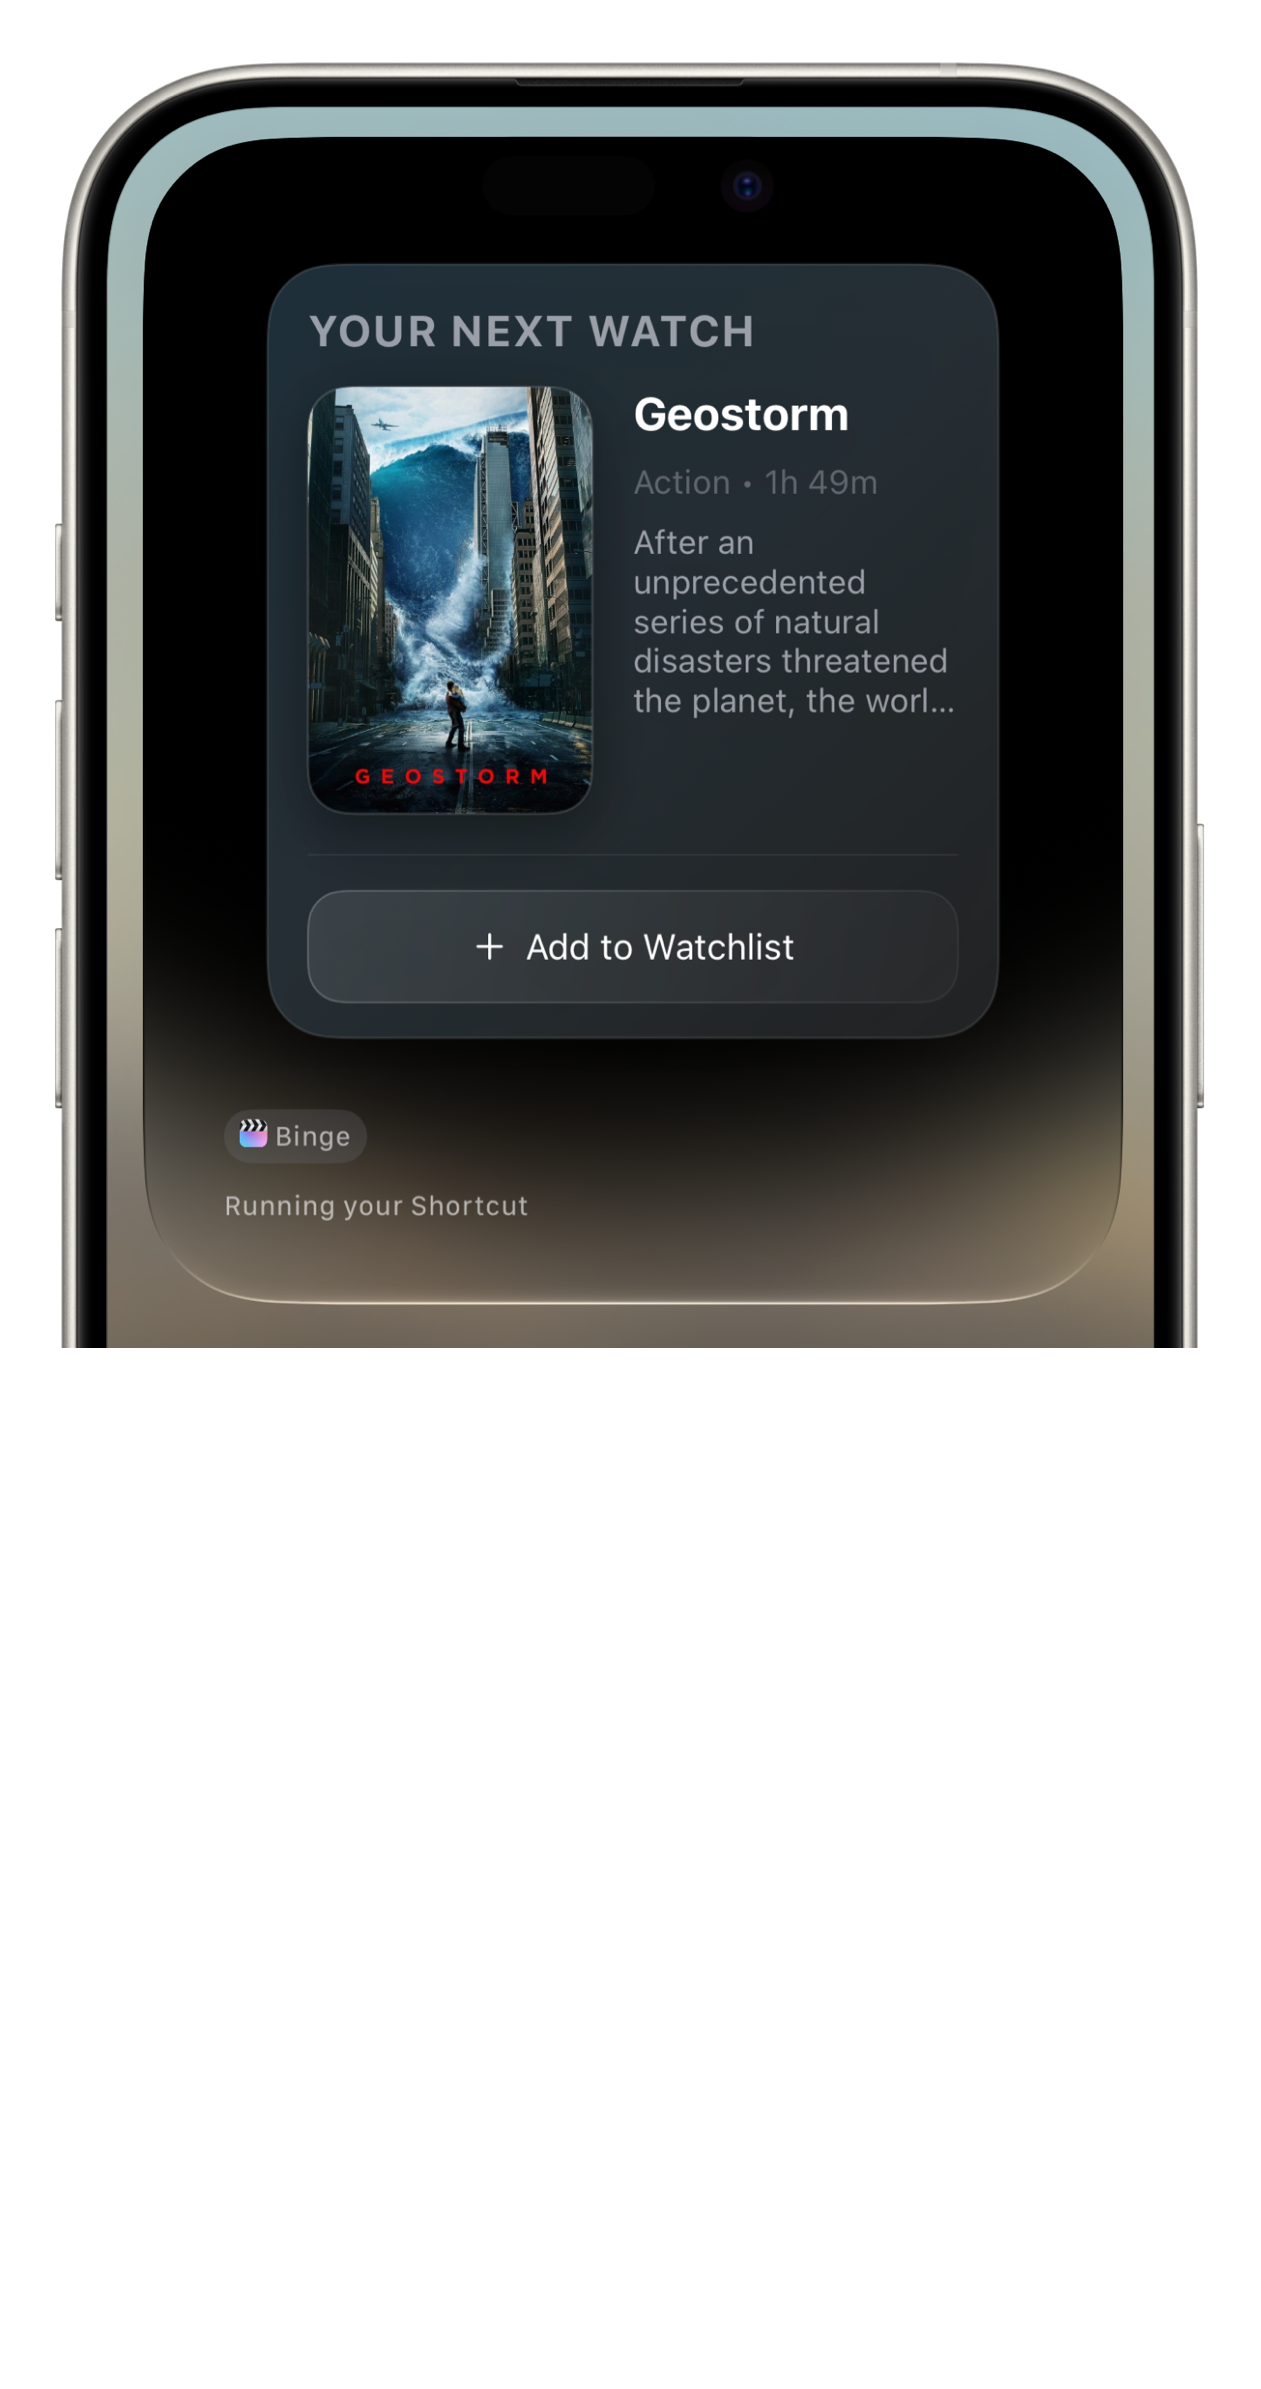
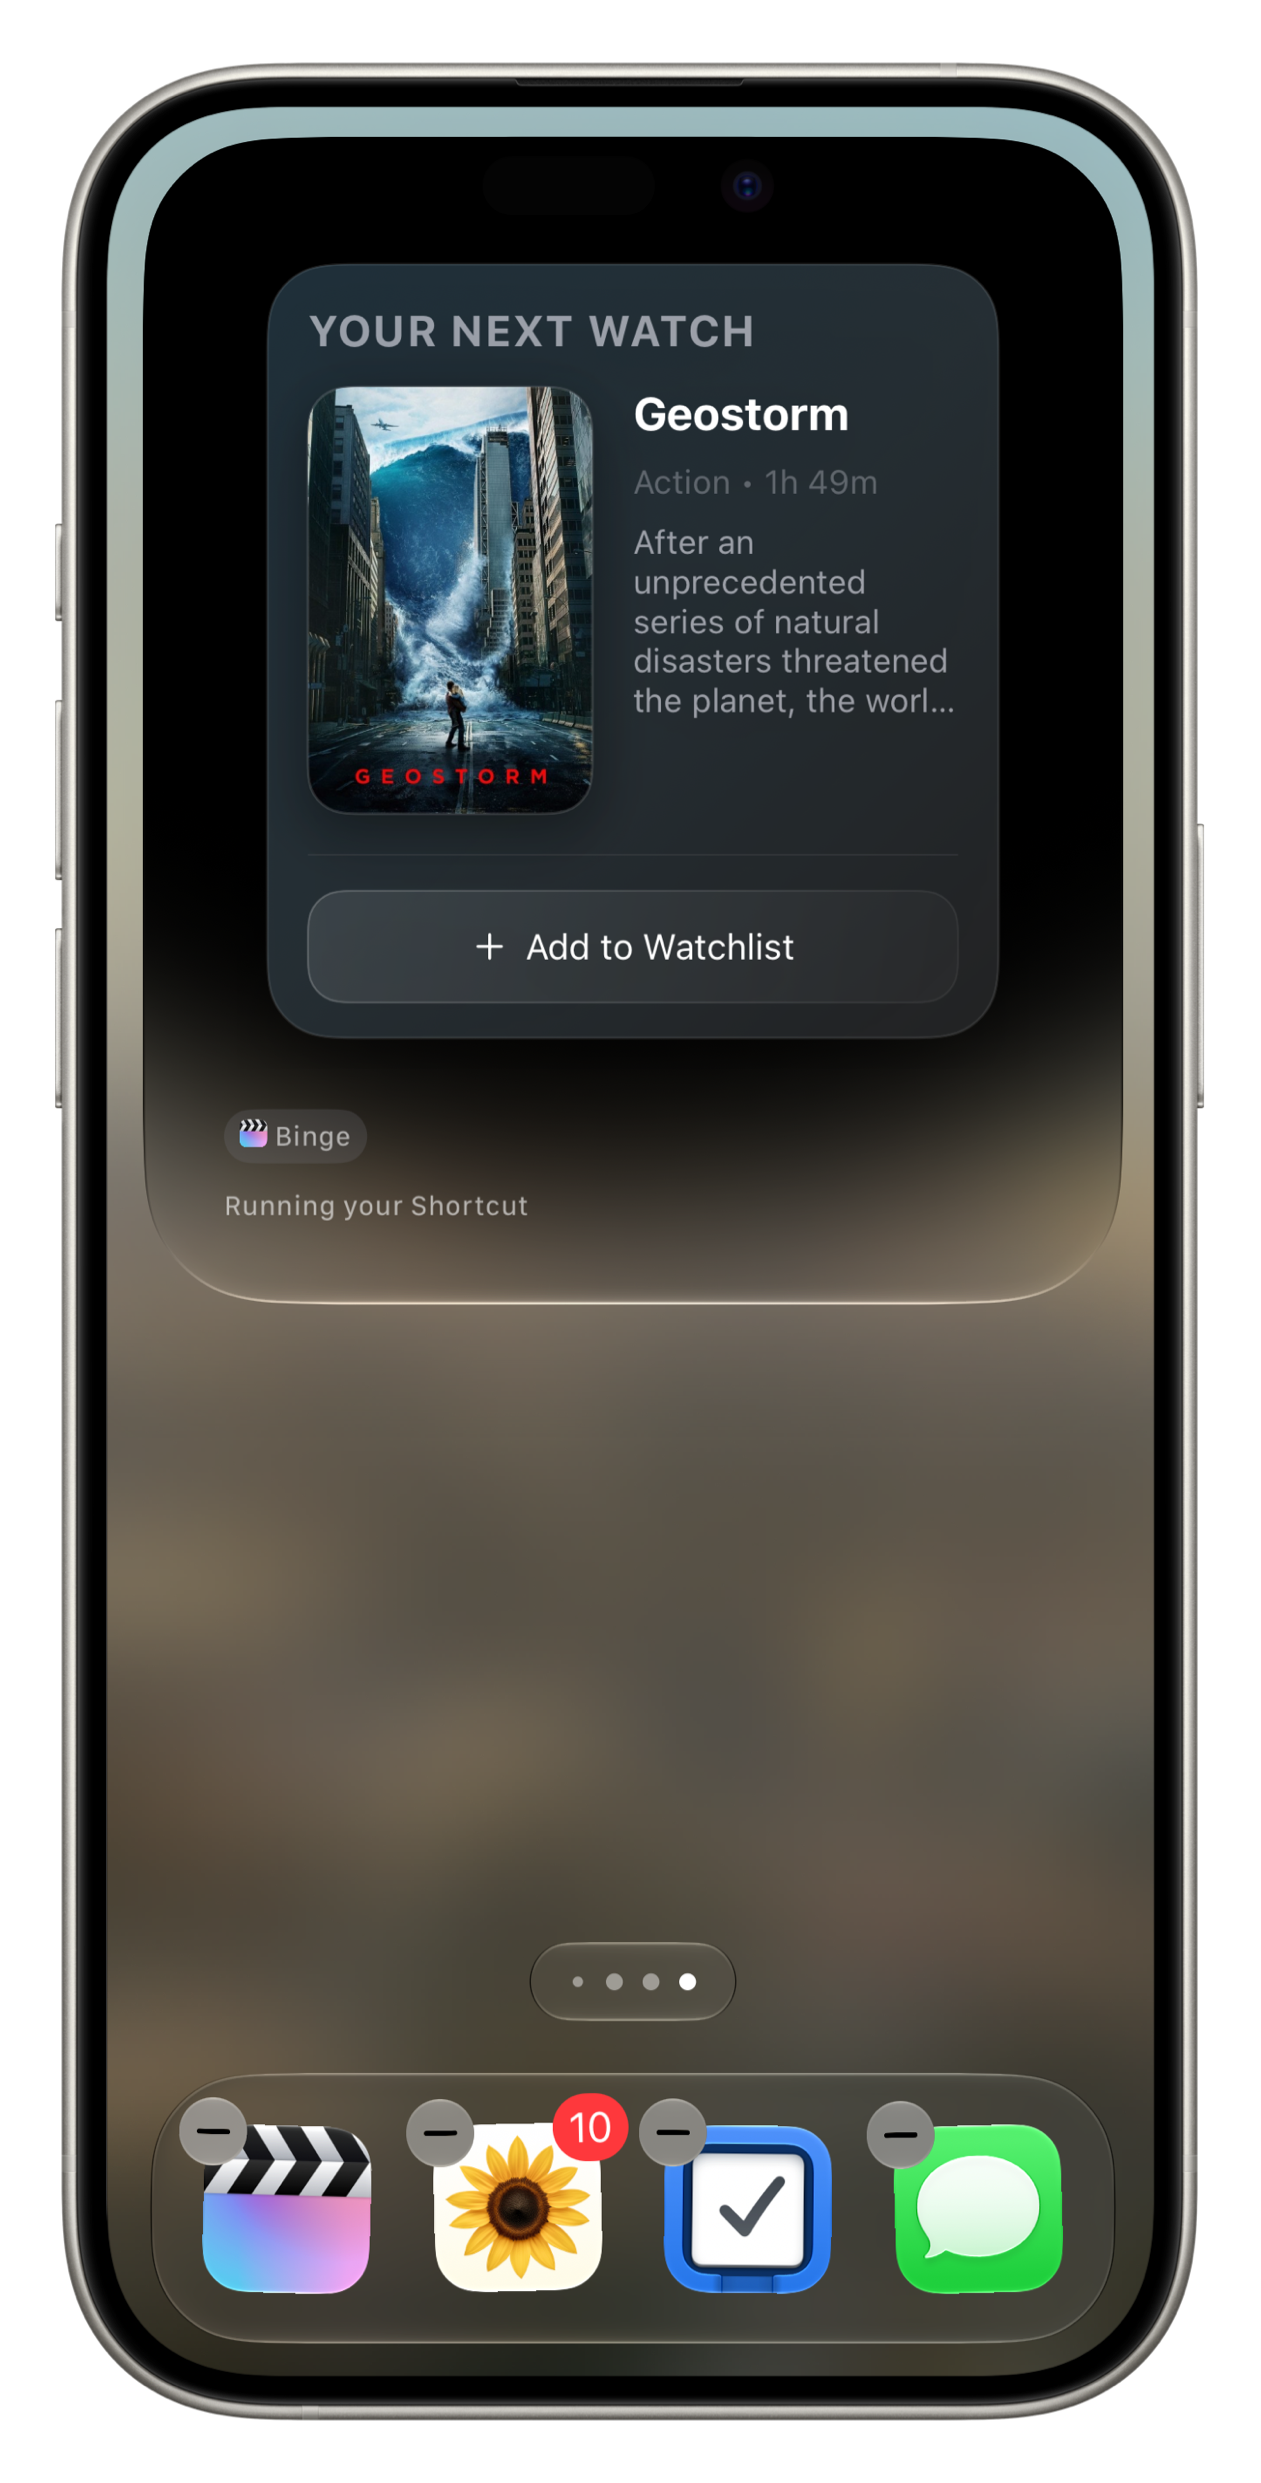
Use full Apple Intelligence phone artwork

diff --git a/index.html b/index.html
@@ -26,7 +26,7 @@
     <link rel="icon" type="image/png" sizes="16x16" href="/favicon-16.png?v=f683aeb">
     <link rel="apple-touch-icon" sizes="180x180" href="/favicon-180.png?v=f683aeb">
     <link rel="preload" as="image" type="image/png" href="/assets/hand-cursor.png?v=1">
-    <link rel="stylesheet" href="style.css?v=119">
+    <link rel="stylesheet" href="style.css?v=121">
     <script src="devices.js?v=6" defer></script>
     <script src="widgets.js?v=2" defer></script>
     <script src="cursor.js?v=1" defer></script>
@@ -117,7 +117,7 @@
                 </div>
 
                 <div class="apple-intelligence-phone">
-                    <img src="assets/apple-intelligence-phone.png?v=2" width="1261" height="2389" alt="Binge running an Apple Intelligence shortcut and recommending Geostorm" loading="lazy" decoding="async">
+                    <img src="assets/apple-intelligence-phone.png?v=3" width="1261" height="2483" alt="Binge running an Apple Intelligence shortcut and recommending Geostorm" loading="lazy" decoding="async">
                 </div>
             </div>
         </div>

diff --git a/style.css b/style.css
@@ -496,11 +496,14 @@ a:hover {
 }
 
 .apple-intelligence-phone {
+    position: relative;
     width: min(100%, 480px);
-    aspect-ratio: 1261 / 1348;
+    aspect-ratio: 1261 / 1240;
 }
 
 .apple-intelligence-phone img {
+    position: absolute;
+    inset: 0 auto auto 0;
     display: block;
     width: 100%;
     height: auto;
